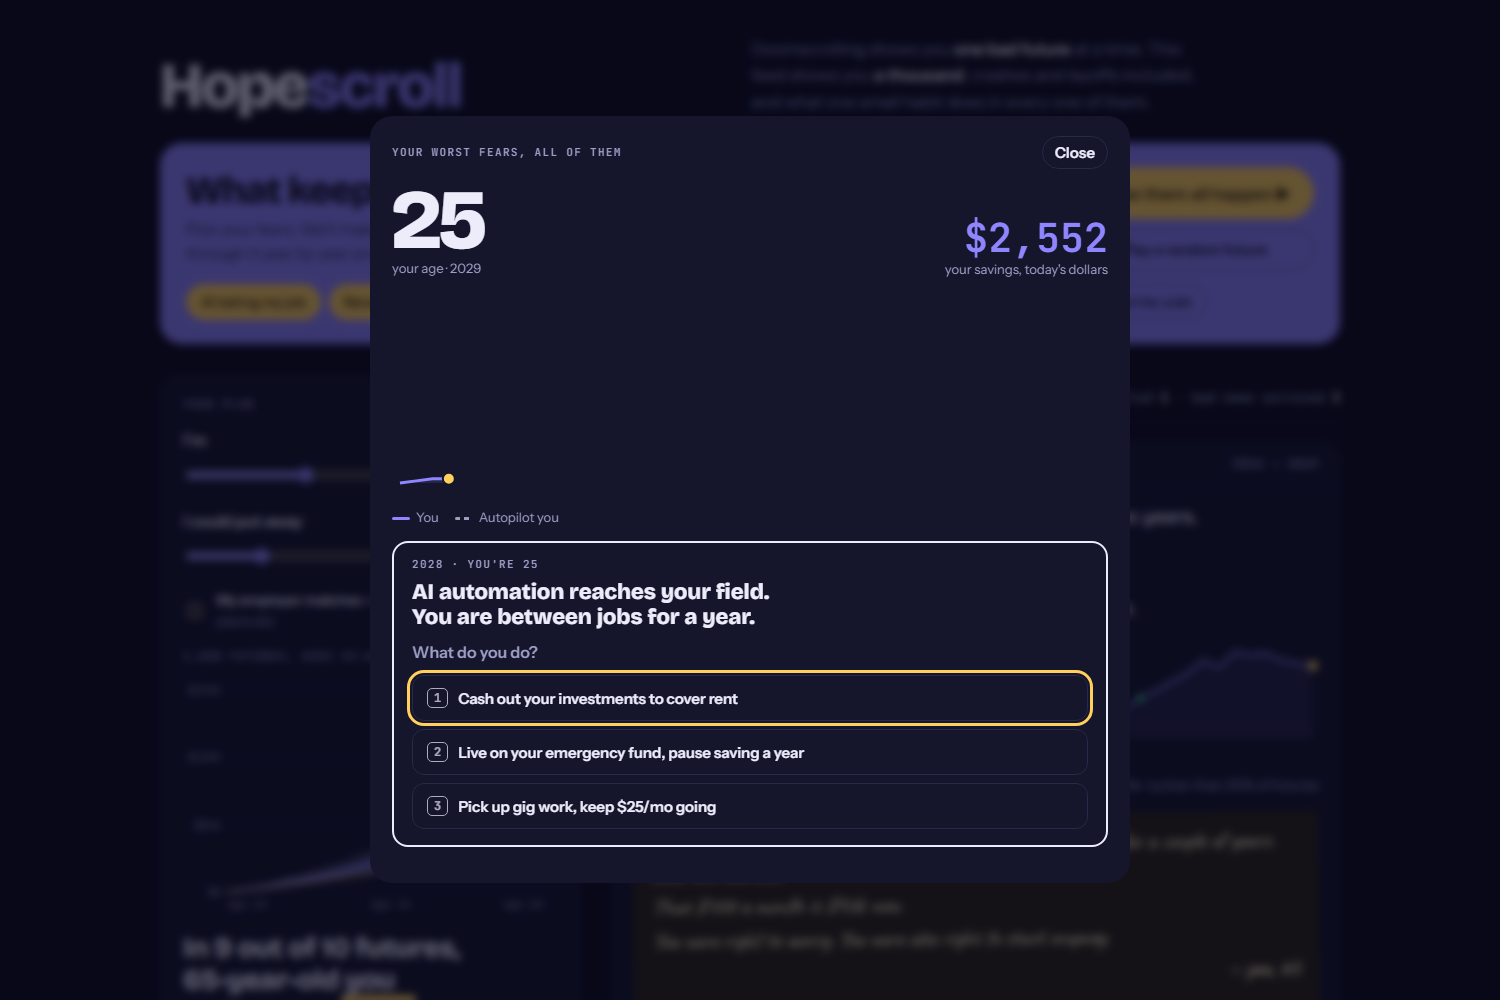
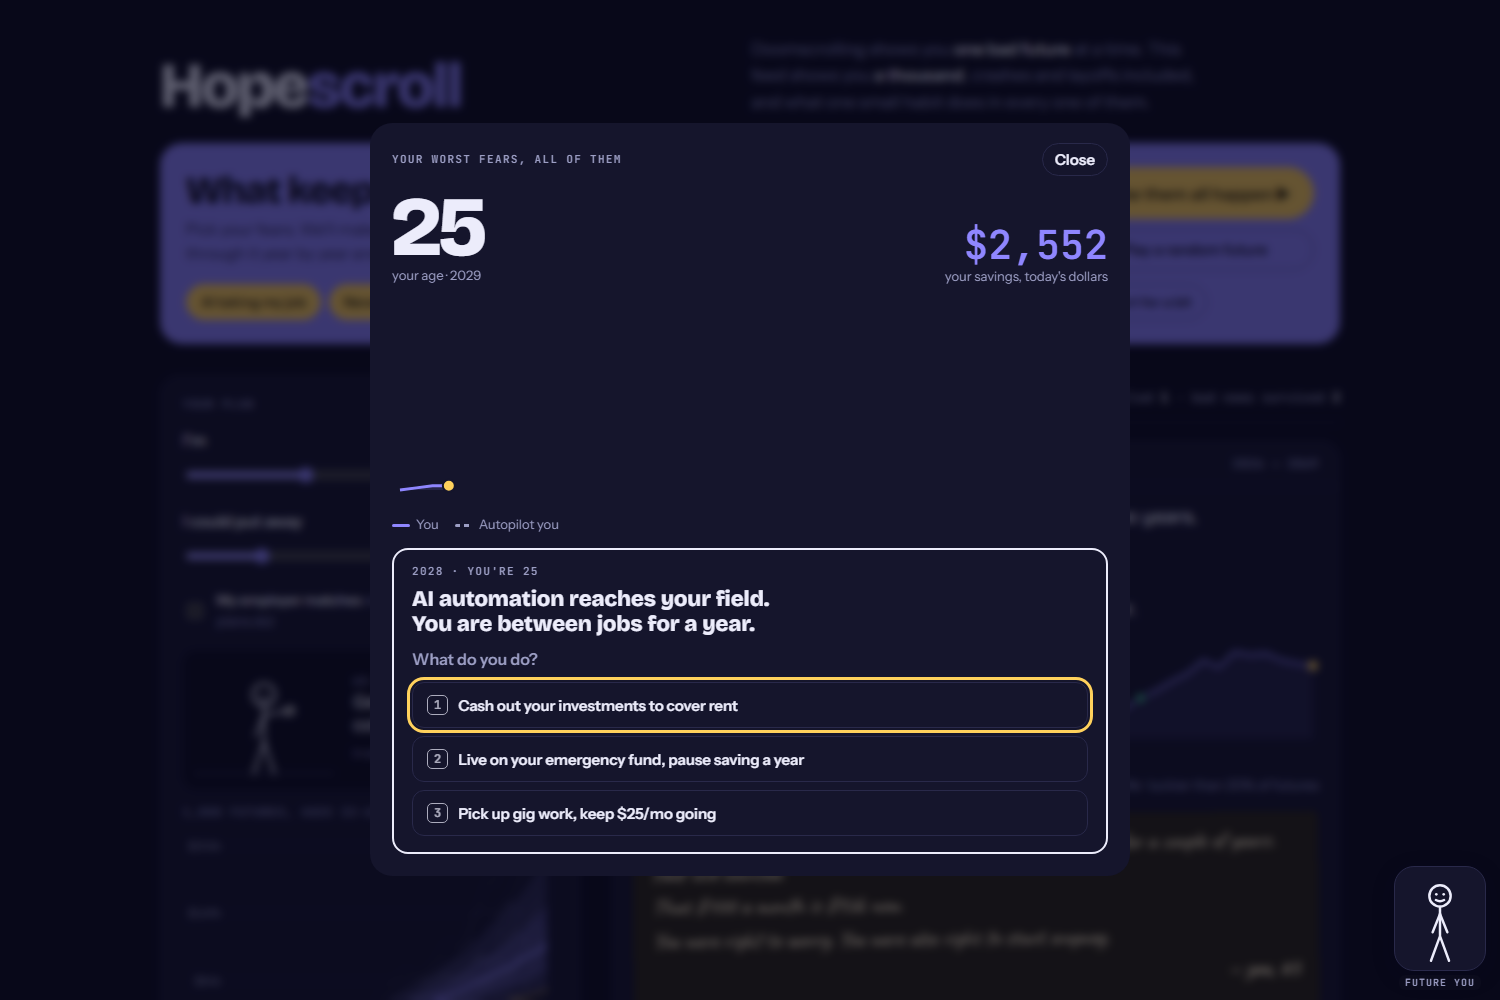
Add corner future-you companion that reacts to decisions

diff --git a/docs/index.html b/docs/index.html
@@ -160,7 +160,30 @@ kbd{font:600 12px var(--f-mono);border:1px solid currentColor;border-radius:5px;
 @keyframes hop{50%{transform:translateY(-7px)}}
 @keyframes rain{from{transform:translateY(-3px);opacity:1}to{transform:translateY(5px);opacity:0}}
 @keyframes spin{to{transform:rotate(360deg)}}
-@media (prefers-reduced-motion:reduce){.card,.pl-event,.bar i,.fig *{animation:none!important}}
+.buddy{position:fixed;z-index:20;right:calc(14px + env(safe-area-inset-right,0px));bottom:calc(10px + env(safe-area-inset-bottom,0px));display:grid;justify-items:center;pointer-events:none}
+.buddy-btn{pointer-events:auto;width:92px;padding:6px 4px 0;border-radius:20px;background:var(--surface);border:1px solid var(--line);box-shadow:0 6px 24px rgb(10 10 40 / .14)}
+.buddy-btn svg{display:block;width:100%;height:auto;overflow:visible}
+.buddy-name{font:600 10px var(--f-mono);letter-spacing:.1em;text-transform:uppercase;color:var(--muted);margin-top:4px;background:var(--bg);padding:1px 6px;border-radius:6px}
+.buddy svg *{fill:none;stroke:var(--ink);stroke-width:3;stroke-linecap:round;stroke-linejoin:round;transition:opacity .4s,transform .55s cubic-bezier(.3,1.5,.5,1)}
+.buddy .eye{fill:var(--ink);stroke:none}
+.buddy .spark path{fill:var(--sun);stroke:none}
+.buddy .tear{fill:var(--accent);stroke:none}
+.buddy .arm{transform-origin:50px 50px}
+.buddy .bl{transform:rotate(22deg)} .buddy .br{transform:rotate(-22deg)}
+.buddy .spark,.buddy .tear,.buddy .brow{opacity:0}
+.buddy .bod{animation:bob 3s ease-in-out infinite}
+.buddy[data-mood="happy"] .bl{transform:rotate(128deg)} .buddy[data-mood="happy"] .br{transform:rotate(-128deg)}
+.buddy[data-mood="happy"] .spark{opacity:1;animation:twinkle 1.2s ease-in-out infinite}
+.buddy[data-mood="happy"] .bod{animation:hop .6s ease-in-out 3}
+.buddy[data-mood="sad"] .bl{transform:rotate(6deg)} .buddy[data-mood="sad"] .br{transform:rotate(-6deg)}
+.buddy[data-mood="sad"] .tear,.buddy[data-mood="sad"] .brow{opacity:1}
+.buddy[data-mood="sad"] .bod{animation:none;transform:translateY(4px)}
+.buddy[data-mood="sad"] .buddy-btn{background:color-mix(in srgb,var(--accent) 8%,var(--surface))}
+@keyframes twinkle{50%{opacity:.35}}
+.bubble{position:absolute;right:0;bottom:100%;margin-bottom:10px;width:max-content;max-width:min(240px,calc(100vw - 40px));background:var(--ink);color:var(--bg);font:600 14px/1.3 var(--f-body);padding:9px 13px;border-radius:14px 14px 4px 14px;animation:pop .25s ease both}
+dialog .buddy{z-index:30}
+@media (max-width:600px){.buddy-btn{width:66px}.buddy-name{display:none}}
+@media (prefers-reduced-motion:reduce){.card,.pl-event,.bar i,.fig *,.buddy *{animation:none!important}}
 </style></head><body>
 
 <div class="wrap">
@@ -246,6 +269,25 @@ kbd{font:600 12px var(--f-mono);border:1px solid currentColor;border-radius:5px;
   </div>
 </dialog>
 
+<div class="buddy" id="buddy" data-mood="ok">
+  <div class="bubble" id="bubble" role="status" aria-live="polite" hidden></div>
+  <button class="buddy-btn" id="buddyBtn" aria-label="Future you. Tap for a pep talk.">
+    <svg viewBox="0 0 100 118" aria-hidden="true">
+      <g class="spark"><path d="M12 22l3 6 6 3-6 3-3 6-3-6-6-3 6-3z"/><path d="M88 12l2 4 4 2-4 2-2 4-2-4-4-2 4-2z"/></g>
+      <g class="bod">
+        <circle cx="50" cy="28" r="13"/>
+        <circle class="eye" cx="45.5" cy="26" r="1.6"/><circle class="eye" cx="54.5" cy="26" r="1.6"/>
+        <path class="brow" d="M41 20l7 2M59 20l-7 2"/>
+        <path class="tear" d="M44 31c0 3-1.5 4.5-2.5 4.5S39 34 39 31l2.5-4z"/>
+        <path id="bMouth" class="mouth" d="M45 33 Q50 36 55 33"/>
+        <path d="M50 41v36M50 77l-11 30M50 77l11 30"/>
+        <g class="arm bl"><path d="M50 50v24"/></g><g class="arm br"><path d="M50 50v24"/></g>
+      </g>
+    </svg>
+  </button>
+  <span class="buddy-name">future you</span>
+</div>
+
 <script>
 (()=>{
 const N=1000, MAXY=50, Y0=new Date().getFullYear();
@@ -316,7 +358,7 @@ function recompute(){
   $('insight').innerHTML=S.p10>S.late50
     ? `<b>Starting now beats luck.</b> Your unluckiest 10% of futures still end higher than the <i>typical</i> future where you wait until ${S.age+10} to start (${kmoney(S.late50)}).`
     : `<b>Time is the lever.</b> Waiting until ${S.age+10} to start turns the typical future from ${kmoney(S.p50)} into ${kmoney(S.late50)}, with the same $${S.amt}/mo.`;
-  drawFan();setMood(S.p10*.04/12);
+  drawFan();setMood(S.p10*.04/12);reactPlan();
   // refresh numbers already in the feed
   document.querySelectorAll('.card[data-w]').forEach(fillCard);
 }
@@ -333,6 +375,38 @@ function setMood(m){
   $('mouth').setAttribute('d',`M75 43 Q80 ${y} 85 43`);$('mouth').style.d=`path("M75 43 Q80 ${y} 85 43")`;
   $('mood').textContent=txt;$('moodInc').textContent=money(m);
 }
+
+// ---------- Corner buddy: future you reacts to every decision ----------
+const pickL=a=>a[Math.floor(Math.random()*a.length)];
+const SAY={
+ calm:['Steady. I felt that.','Calm hands. Love that for us.','Doing nothing was the move.'],
+ bold:['Bold. I like it.','Scary, but smart.'],
+ fun:['A little fun is allowed.','Pics or it didn’t happen.'],
+ panic:['Oof. That one hurts later.','Ah. We panicked.','Future me is wincing.'],
+ drift:['Fun now, oof later.','Lifestyle creep got us.'],
+ up:['Future me felt that.','Ooh, coffee upgrade.','Every future just moved up.','Yes! Keep going.'],
+ down:['Oof. I felt that too.','Wait, come back.'],
+ matchOn:['Free money?! Yes please.'],matchOff:['You’re leaving free money on the table…'],
+ move:['That counts. Real progress.','Five minutes well spent.'],
+ start:['Okay. Let’s do this together.','Deep breath. We’ve got this.'],
+ win:['We did it. Thanks, past me.','Look at us. Look at us!'],lose:['We can do better. Rematch?','Rough one. Try it again?'],
+ poke:['The future is still worth planning for.','You’re doing better than you think.','Small and boring wins.','Close the doom app. Open this one.']};
+const MOUTH={happy:'M44 32 Q50 40 56 32',ok:'M45 33 Q50 36 55 33',sad:'M45 36 Q50 31 55 36'};
+let bubT,prevPlan=null;
+function react(mood,line){
+  const b=$('buddy');b.dataset.mood=mood;$('bMouth').setAttribute('d',MOUTH[mood]);
+  if(mood==='happy'){const bod=b.querySelector('.bod');bod.style.animation='none';bod.offsetWidth;bod.style.animation=''}
+  if(line){$('bubble').hidden=false;$('bubble').textContent=line;clearTimeout(bubT);bubT=setTimeout(()=>{$('bubble').hidden=true},3800)}
+}
+function reactPlan(){
+  if(prevPlan){
+    if(S.match!==prevPlan.match)react(S.match?'happy':'sad',pickL(S.match?SAY.matchOn:SAY.matchOff));
+    else if(S.amt>prevPlan.amt)react('happy',pickL(SAY.up));
+    else if(S.amt<prevPlan.amt)react(S.amt<50?'sad':'ok',pickL(SAY.down));
+  }
+  prevPlan={amt:S.amt,match:S.match};
+}
+$('buddyBtn').onclick=()=>react($('buddy').dataset.mood,pickL(SAY.poke));
 
 // ---------- Feed ----------
 const order=[...Array(N).keys()];{const r=mulberry(42);for(let i=N-1;i>0;i--){const j=Math.floor(r()*(i+1));[order[i],order[j]]=[order[j],order[i]]}}
@@ -394,7 +468,7 @@ function addNudge(){
     let done={};try{done=JSON.parse(localStorage.getItem('hs-moves')||'{}')}catch(e){}
     el.innerHTML=`<div class="eyebrow">Tiny moves this week</div><h3>Pick one. Five minutes counts.</h3>
     <ul class="moves">${MOVES.map((m,i)=>`<li><label><input type="checkbox" id="mv${nudgeN}-${i}" data-mv="${i}" ${done[i]?'checked':''}><span>${m[0]}<small>${m[1]}</small></span></label></li>`).join('')}</ul>`;
-    el.addEventListener('change',e=>{const i=e.target.dataset.mv;if(i==null)return;done[i]=e.target.checked;try{localStorage.setItem('hs-moves',JSON.stringify(done))}catch(_){}});
+    el.addEventListener('change',e=>{const i=e.target.dataset.mv;if(i==null)return;done[i]=e.target.checked;if(e.target.checked)react('happy',pickL(SAY.move));try{localStorage.setItem('hs-moves',JSON.stringify(done))}catch(_){}});
   }
   el.addEventListener('click',e=>{const b=e.target.closest('button');if(!b)return;
     if(b.dataset.bump){$('amt').value=Math.min(500,S.amt+ +b.dataset.bump);recompute();b.textContent='Done. Every future just moved up.';b.disabled=true}
@@ -474,11 +548,14 @@ async function play(w,title){
   const auto=await runWorld(w,evs,autoPick),doom=await runWorld(w,evs,doomPick);
   $('plTitle').textContent=title;$('plEvent').hidden=true;$('plEnd').hidden=true;$('plSkip').hidden=false;
   if(!PL.open)PL.showModal();
+  PL.append($('buddy'));react('ok',pickL(SAY.start));
   try{
     const G=await runWorld(w,evs,decide,async(G,j,res)=>{
       if(run!==playing)throw 'stop';
       $('plAge').textContent=S.age+j+1;$('plYear').textContent=Y0+j+1;$('plBal').textContent=money(G.b);drawPl(G.path,auto.path,evs);
-      if(res){const box=$('plEvent');box.insertAdjacentHTML('beforeend',`<p class="out">${res.out||REACT[res.o.tag]}</p>`);await sleep(RM?400:1500);if(run!==playing)throw 'stop';box.hidden=true;$('plSkip').hidden=false}
+      if(res){const tg=res.o.tag,good=tg==='gamble'?/mooned/.test(res.out||''):!/panic|drift/.test(tg);
+        react(good?'happy':'sad',tg==='gamble'?(good?'Lucky. Please never do that again.':'The meme coin. Of course.'):pickL(SAY[tg]));
+        const box=$('plEvent');box.insertAdjacentHTML('beforeend',`<p class="out">${res.out||REACT[res.o.tag]}</p>`);await sleep(RM?400:1500);if(run!==playing)throw 'stop';box.hidden=true;$('plSkip').hidden=false}
       else if(!fast)await sleep(RM?15:110);
     });
     endScreen(G,auto,doom,title,w);
@@ -488,6 +565,7 @@ function endScreen(G,auto,doom,title,w){
   $('plSkip').hidden=true;
   const diff=G.b-auto.b,rows=[['You',G.b,'you'],['Autopilot you',auto.b,'auto'],['Doomscroll you',doom.b,'doom']],m=Math.max(...rows.map(r=>r[1]))||1;
   const badges=[...new Set(G.picks.map(p=>p.o.bd).filter(Boolean))];
+  react(diff>=-500?'happy':'sad',pickL(diff>=-500?SAY.win:SAY.lose));
   const head=!G.picks.length?'A quiet life. Autopilot did all the work.':Math.abs(diff)<500?'You matched autopilot. Calm is a superpower.':diff>0?`Your calls added ${kmoney(diff)} on top of autopilot.`:`Your calls cost ${kmoney(-diff)} versus autopilot.`;
   const memos=G.picks.slice(-3).map(p=>`<p>${p.o.m(Y0+p.e.t)}</p>`).join('');
   const share=`I lived ${title} on Hopescroll and ended at 65 with ${kmoney(G.b)} (autopilot me: ${kmoney(auto.b)}, doomscroll me: ${kmoney(doom.b)}). Same world, same luck. Different choices.`;
@@ -506,7 +584,7 @@ function endScreen(G,auto,doom,title,w){
 }
 $('plSkip').onclick=()=>{fast=true};
 $('plClose').onclick=()=>{playing++;PL.close()};
-PL.addEventListener('close',()=>{playing++});
+PL.addEventListener('close',()=>{playing++;document.body.append($('buddy'))});
 $('feed').addEventListener('click',e=>{const b=e.target.closest('[data-live]');if(b)play(worlds[+b.dataset.live],`Future #${String(+b.dataset.live+1).padStart(4,'0')}`)});
 
 // Fear picker: build a world where everything you picked actually happens.

diff --git a/index.html b/index.html
@@ -160,7 +160,30 @@ kbd{font:600 12px var(--f-mono);border:1px solid currentColor;border-radius:5px;
 @keyframes hop{50%{transform:translateY(-7px)}}
 @keyframes rain{from{transform:translateY(-3px);opacity:1}to{transform:translateY(5px);opacity:0}}
 @keyframes spin{to{transform:rotate(360deg)}}
-@media (prefers-reduced-motion:reduce){.card,.pl-event,.bar i,.fig *{animation:none!important}}
+.buddy{position:fixed;z-index:20;right:calc(14px + env(safe-area-inset-right,0px));bottom:calc(10px + env(safe-area-inset-bottom,0px));display:grid;justify-items:center;pointer-events:none}
+.buddy-btn{pointer-events:auto;width:92px;padding:6px 4px 0;border-radius:20px;background:var(--surface);border:1px solid var(--line);box-shadow:0 6px 24px rgb(10 10 40 / .14)}
+.buddy-btn svg{display:block;width:100%;height:auto;overflow:visible}
+.buddy-name{font:600 10px var(--f-mono);letter-spacing:.1em;text-transform:uppercase;color:var(--muted);margin-top:4px;background:var(--bg);padding:1px 6px;border-radius:6px}
+.buddy svg *{fill:none;stroke:var(--ink);stroke-width:3;stroke-linecap:round;stroke-linejoin:round;transition:opacity .4s,transform .55s cubic-bezier(.3,1.5,.5,1)}
+.buddy .eye{fill:var(--ink);stroke:none}
+.buddy .spark path{fill:var(--sun);stroke:none}
+.buddy .tear{fill:var(--accent);stroke:none}
+.buddy .arm{transform-origin:50px 50px}
+.buddy .bl{transform:rotate(22deg)} .buddy .br{transform:rotate(-22deg)}
+.buddy .spark,.buddy .tear,.buddy .brow{opacity:0}
+.buddy .bod{animation:bob 3s ease-in-out infinite}
+.buddy[data-mood="happy"] .bl{transform:rotate(128deg)} .buddy[data-mood="happy"] .br{transform:rotate(-128deg)}
+.buddy[data-mood="happy"] .spark{opacity:1;animation:twinkle 1.2s ease-in-out infinite}
+.buddy[data-mood="happy"] .bod{animation:hop .6s ease-in-out 3}
+.buddy[data-mood="sad"] .bl{transform:rotate(6deg)} .buddy[data-mood="sad"] .br{transform:rotate(-6deg)}
+.buddy[data-mood="sad"] .tear,.buddy[data-mood="sad"] .brow{opacity:1}
+.buddy[data-mood="sad"] .bod{animation:none;transform:translateY(4px)}
+.buddy[data-mood="sad"] .buddy-btn{background:color-mix(in srgb,var(--accent) 8%,var(--surface))}
+@keyframes twinkle{50%{opacity:.35}}
+.bubble{position:absolute;right:0;bottom:100%;margin-bottom:10px;width:max-content;max-width:min(240px,calc(100vw - 40px));background:var(--ink);color:var(--bg);font:600 14px/1.3 var(--f-body);padding:9px 13px;border-radius:14px 14px 4px 14px;animation:pop .25s ease both}
+dialog .buddy{z-index:30}
+@media (max-width:600px){.buddy-btn{width:66px}.buddy-name{display:none}}
+@media (prefers-reduced-motion:reduce){.card,.pl-event,.bar i,.fig *,.buddy *{animation:none!important}}
 </style>
 
 <div class="wrap">
@@ -246,6 +269,25 @@ kbd{font:600 12px var(--f-mono);border:1px solid currentColor;border-radius:5px;
   </div>
 </dialog>
 
+<div class="buddy" id="buddy" data-mood="ok">
+  <div class="bubble" id="bubble" role="status" aria-live="polite" hidden></div>
+  <button class="buddy-btn" id="buddyBtn" aria-label="Future you. Tap for a pep talk.">
+    <svg viewBox="0 0 100 118" aria-hidden="true">
+      <g class="spark"><path d="M12 22l3 6 6 3-6 3-3 6-3-6-6-3 6-3z"/><path d="M88 12l2 4 4 2-4 2-2 4-2-4-4-2 4-2z"/></g>
+      <g class="bod">
+        <circle cx="50" cy="28" r="13"/>
+        <circle class="eye" cx="45.5" cy="26" r="1.6"/><circle class="eye" cx="54.5" cy="26" r="1.6"/>
+        <path class="brow" d="M41 20l7 2M59 20l-7 2"/>
+        <path class="tear" d="M44 31c0 3-1.5 4.5-2.5 4.5S39 34 39 31l2.5-4z"/>
+        <path id="bMouth" class="mouth" d="M45 33 Q50 36 55 33"/>
+        <path d="M50 41v36M50 77l-11 30M50 77l11 30"/>
+        <g class="arm bl"><path d="M50 50v24"/></g><g class="arm br"><path d="M50 50v24"/></g>
+      </g>
+    </svg>
+  </button>
+  <span class="buddy-name">future you</span>
+</div>
+
 <script>
 (()=>{
 const N=1000, MAXY=50, Y0=new Date().getFullYear();
@@ -316,7 +358,7 @@ function recompute(){
   $('insight').innerHTML=S.p10>S.late50
     ? `<b>Starting now beats luck.</b> Your unluckiest 10% of futures still end higher than the <i>typical</i> future where you wait until ${S.age+10} to start (${kmoney(S.late50)}).`
     : `<b>Time is the lever.</b> Waiting until ${S.age+10} to start turns the typical future from ${kmoney(S.p50)} into ${kmoney(S.late50)}, with the same $${S.amt}/mo.`;
-  drawFan();setMood(S.p10*.04/12);
+  drawFan();setMood(S.p10*.04/12);reactPlan();
   // refresh numbers already in the feed
   document.querySelectorAll('.card[data-w]').forEach(fillCard);
 }
@@ -333,6 +375,38 @@ function setMood(m){
   $('mouth').setAttribute('d',`M75 43 Q80 ${y} 85 43`);$('mouth').style.d=`path("M75 43 Q80 ${y} 85 43")`;
   $('mood').textContent=txt;$('moodInc').textContent=money(m);
 }
+
+// ---------- Corner buddy: future you reacts to every decision ----------
+const pickL=a=>a[Math.floor(Math.random()*a.length)];
+const SAY={
+ calm:['Steady. I felt that.','Calm hands. Love that for us.','Doing nothing was the move.'],
+ bold:['Bold. I like it.','Scary, but smart.'],
+ fun:['A little fun is allowed.','Pics or it didn’t happen.'],
+ panic:['Oof. That one hurts later.','Ah. We panicked.','Future me is wincing.'],
+ drift:['Fun now, oof later.','Lifestyle creep got us.'],
+ up:['Future me felt that.','Ooh, coffee upgrade.','Every future just moved up.','Yes! Keep going.'],
+ down:['Oof. I felt that too.','Wait, come back.'],
+ matchOn:['Free money?! Yes please.'],matchOff:['You’re leaving free money on the table…'],
+ move:['That counts. Real progress.','Five minutes well spent.'],
+ start:['Okay. Let’s do this together.','Deep breath. We’ve got this.'],
+ win:['We did it. Thanks, past me.','Look at us. Look at us!'],lose:['We can do better. Rematch?','Rough one. Try it again?'],
+ poke:['The future is still worth planning for.','You’re doing better than you think.','Small and boring wins.','Close the doom app. Open this one.']};
+const MOUTH={happy:'M44 32 Q50 40 56 32',ok:'M45 33 Q50 36 55 33',sad:'M45 36 Q50 31 55 36'};
+let bubT,prevPlan=null;
+function react(mood,line){
+  const b=$('buddy');b.dataset.mood=mood;$('bMouth').setAttribute('d',MOUTH[mood]);
+  if(mood==='happy'){const bod=b.querySelector('.bod');bod.style.animation='none';bod.offsetWidth;bod.style.animation=''}
+  if(line){$('bubble').hidden=false;$('bubble').textContent=line;clearTimeout(bubT);bubT=setTimeout(()=>{$('bubble').hidden=true},3800)}
+}
+function reactPlan(){
+  if(prevPlan){
+    if(S.match!==prevPlan.match)react(S.match?'happy':'sad',pickL(S.match?SAY.matchOn:SAY.matchOff));
+    else if(S.amt>prevPlan.amt)react('happy',pickL(SAY.up));
+    else if(S.amt<prevPlan.amt)react(S.amt<50?'sad':'ok',pickL(SAY.down));
+  }
+  prevPlan={amt:S.amt,match:S.match};
+}
+$('buddyBtn').onclick=()=>react($('buddy').dataset.mood,pickL(SAY.poke));
 
 // ---------- Feed ----------
 const order=[...Array(N).keys()];{const r=mulberry(42);for(let i=N-1;i>0;i--){const j=Math.floor(r()*(i+1));[order[i],order[j]]=[order[j],order[i]]}}
@@ -394,7 +468,7 @@ function addNudge(){
     let done={};try{done=JSON.parse(localStorage.getItem('hs-moves')||'{}')}catch(e){}
     el.innerHTML=`<div class="eyebrow">Tiny moves this week</div><h3>Pick one. Five minutes counts.</h3>
     <ul class="moves">${MOVES.map((m,i)=>`<li><label><input type="checkbox" id="mv${nudgeN}-${i}" data-mv="${i}" ${done[i]?'checked':''}><span>${m[0]}<small>${m[1]}</small></span></label></li>`).join('')}</ul>`;
-    el.addEventListener('change',e=>{const i=e.target.dataset.mv;if(i==null)return;done[i]=e.target.checked;try{localStorage.setItem('hs-moves',JSON.stringify(done))}catch(_){}});
+    el.addEventListener('change',e=>{const i=e.target.dataset.mv;if(i==null)return;done[i]=e.target.checked;if(e.target.checked)react('happy',pickL(SAY.move));try{localStorage.setItem('hs-moves',JSON.stringify(done))}catch(_){}});
   }
   el.addEventListener('click',e=>{const b=e.target.closest('button');if(!b)return;
     if(b.dataset.bump){$('amt').value=Math.min(500,S.amt+ +b.dataset.bump);recompute();b.textContent='Done. Every future just moved up.';b.disabled=true}
@@ -474,11 +548,14 @@ async function play(w,title){
   const auto=await runWorld(w,evs,autoPick),doom=await runWorld(w,evs,doomPick);
   $('plTitle').textContent=title;$('plEvent').hidden=true;$('plEnd').hidden=true;$('plSkip').hidden=false;
   if(!PL.open)PL.showModal();
+  PL.append($('buddy'));react('ok',pickL(SAY.start));
   try{
     const G=await runWorld(w,evs,decide,async(G,j,res)=>{
       if(run!==playing)throw 'stop';
       $('plAge').textContent=S.age+j+1;$('plYear').textContent=Y0+j+1;$('plBal').textContent=money(G.b);drawPl(G.path,auto.path,evs);
-      if(res){const box=$('plEvent');box.insertAdjacentHTML('beforeend',`<p class="out">${res.out||REACT[res.o.tag]}</p>`);await sleep(RM?400:1500);if(run!==playing)throw 'stop';box.hidden=true;$('plSkip').hidden=false}
+      if(res){const tg=res.o.tag,good=tg==='gamble'?/mooned/.test(res.out||''):!/panic|drift/.test(tg);
+        react(good?'happy':'sad',tg==='gamble'?(good?'Lucky. Please never do that again.':'The meme coin. Of course.'):pickL(SAY[tg]));
+        const box=$('plEvent');box.insertAdjacentHTML('beforeend',`<p class="out">${res.out||REACT[res.o.tag]}</p>`);await sleep(RM?400:1500);if(run!==playing)throw 'stop';box.hidden=true;$('plSkip').hidden=false}
       else if(!fast)await sleep(RM?15:110);
     });
     endScreen(G,auto,doom,title,w);
@@ -488,6 +565,7 @@ function endScreen(G,auto,doom,title,w){
   $('plSkip').hidden=true;
   const diff=G.b-auto.b,rows=[['You',G.b,'you'],['Autopilot you',auto.b,'auto'],['Doomscroll you',doom.b,'doom']],m=Math.max(...rows.map(r=>r[1]))||1;
   const badges=[...new Set(G.picks.map(p=>p.o.bd).filter(Boolean))];
+  react(diff>=-500?'happy':'sad',pickL(diff>=-500?SAY.win:SAY.lose));
   const head=!G.picks.length?'A quiet life. Autopilot did all the work.':Math.abs(diff)<500?'You matched autopilot. Calm is a superpower.':diff>0?`Your calls added ${kmoney(diff)} on top of autopilot.`:`Your calls cost ${kmoney(-diff)} versus autopilot.`;
   const memos=G.picks.slice(-3).map(p=>`<p>${p.o.m(Y0+p.e.t)}</p>`).join('');
   const share=`I lived ${title} on Hopescroll and ended at 65 with ${kmoney(G.b)} (autopilot me: ${kmoney(auto.b)}, doomscroll me: ${kmoney(doom.b)}). Same world, same luck. Different choices.`;
@@ -506,7 +584,7 @@ function endScreen(G,auto,doom,title,w){
 }
 $('plSkip').onclick=()=>{fast=true};
 $('plClose').onclick=()=>{playing++;PL.close()};
-PL.addEventListener('close',()=>{playing++});
+PL.addEventListener('close',()=>{playing++;document.body.append($('buddy'))});
 $('feed').addEventListener('click',e=>{const b=e.target.closest('[data-live]');if(b)play(worlds[+b.dataset.live],`Future #${String(+b.dataset.live+1).padStart(4,'0')}`)});
 
 // Fear picker: build a world where everything you picked actually happens.

diff --git a/README.md b/README.md
@@ -10,6 +10,7 @@ Built for the Canada Life Future Me Challenge.
 - **Fear-picker stress test:** choose your fears (AI taking your job, rent, a crash, inflation, a pandemic, life emergencies), and they all happen to you.
 - **Year-by-year game:** make the call at each shock (sell, hold or buy the dip; cash out or use the emergency fund; spend the raise or save it) while "Autopilot you" runs alongside.
 - **You vs Autopilot you vs Doomscroll you:** the same world with the same luck, so the gap comes from decisions. Ends with badges and a postcard from 65-year-old you.
+- **"Future you" companion:** a corner stick figure that cheers or slumps (with a speech bubble) after every decision you make.
 - **A feed of 1,000 futures:** a Monte Carlo fan chart plus individual futures you can scroll and play, with behavioural nudges and "Tiny Moves" built into the scroll.
 
 ## Run it
